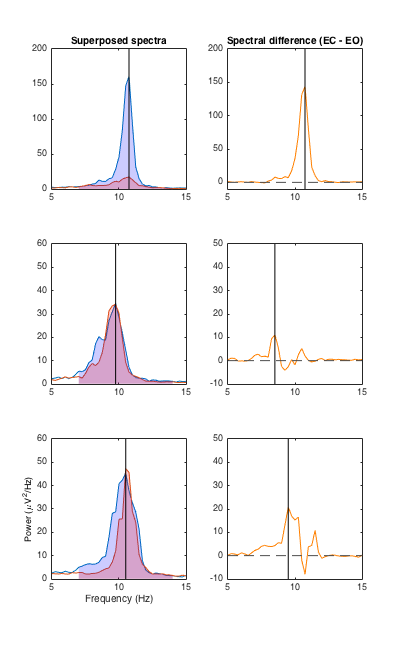
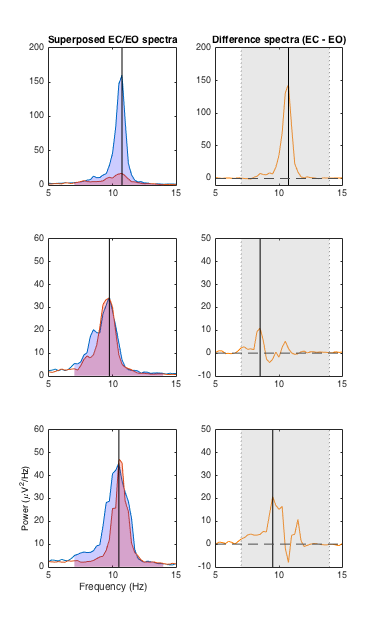
alterations to alpha blocking figure / explanation

diff --git a/iaf_manu.md b/iaf_manu.md
@@ -110,16 +110,16 @@ This is obviously problematic given that one of the chief advantages of the CoG 
 We turn now to two interesting extensions of the TF approach that depend on the alpha blocking or desynchronisation phenomenon mentioned above. 
 The first method, which we refer to as peak attenuation, was described by @posthuma2001.
 
-![*Fig_blocking.* Illustration of the peak attenuation method, in which the PSD from a period of eyes-open EEG (EO) is subtracted from a corresponding eyes-closed recording (EC). The peak frequency of the resulting difference function is taken as the IAF estimate. *Top row*: Alpha-band activity registered during the EO recording (red shading) is relatively low compared to that of the EC spectrum (blue shading). In this case, the peak attenuation method returns the PAF of the EC spectrum as the IAF estimate. *Central row*: When alpha-band activity is similar across EO and EC recordings, peak attenuation may be vulnerable to bias. In this case, the primary peak ~9.75 Hz is present in both spectra, cancelling one another out. Peak attenuation returns 8.5 Hz (the frequency of the secondary peak) as the IAF. *Bottom row*: Data from another participant in which partial overlap of EC and EO spectral components shifts the estimated alpha peak by ~1 Hz.](blocking.png){#blocking}
-<!-- AC: I had intended to wrap the following paragraph to one side of this figure, but I'm not sure markdown supports this.-->
-Similar in principle to Klimesch's [@klimesch1999]<!-- AC: check how to be more flexible with citation format --> delineation of the TF, this technique simply subtracts eyes-oped PSD estimates from the corresponding ordinates of the eyes-closed PSD within some a priori defined alpha-band window (typically extended beyond the standard bandwidth; e.g., 7–14 Hz).
-The resulting peak, which constitutes the maximal power difference between the two spectra, is taken as the PAF. 
-To avoid trivial peaks arising from small fluctuations in the PSD, Posthuma and colleagues excluded spectra featuring consistently low power estimates (< 1.5 $\mu$V/Hz) within the alpha-band. <!-- AC: They report 1.5mV, but is it safe to assume they probably meant 1.5 mV^2^ ? -->
-It isn’t clear, however, whether this criterion (which is analagous to the $\phi$ parameter in the PAF equation defined above) was also applied in cases where the maximal difference between spectra was similarly small (i.e. where both spectra present a substantive, near overlapping alpha-band component).
-Posthuma and colleagues also remarked that peak attenuation estimates deviated from eyes-closed resting-state PAFs in 21% of cases. 
-This lack of convergence, coupled with the observation that peak attenuation may lead to distorted representations of the PAF when the assumption of significant eyes-open alpha desynchronisation fails to obtain [see [Fig_blocking](#blocking); cf. @kreitman1965]<!-- AC: refer to fig where peak est shifted, ? refer to ind diffs in EO/EC alpha-->, suggests peak attenuation may constitute a suboptimal estimator of IAF (at least insofar as IAF is conceived in terms of the PAF).
+![*Fig_blocking.* Illustration of the peak attenuation method, in which PSD estimates from a period of eyes-open EEG (EO) are subtracted from a corresponding eyes-closed recording (EC). The peak frequency of the resulting difference function (within the extended alpha band 7-14 Hz, grey column in difference spectra) is taken as the IAF estimate. *Top row*: Alpha-band activity registered during the EO recording (red shading) is relatively low compared to that of the EC spectrum (blue shading). In this case, the peak attenuation method returns the PAF of the EC spectrum as the IAF estimate. *Central row*: When alpha-band activity is similar across EO and EC recordings, peak attenuation may be vulnerable to bias. In this case, the primary peak ~9.75 Hz is present in both spectra, cancelling one another out. Peak attenuation returns 8.5 Hz (the frequency of the secondary peak) as the IAF. *Bottom row*: Data from another participant in which partial overlap of EC and EO spectral components shifts the estimated alpha peak by ~1 Hz.](blocking.png){#blocking} <!-- AC: I had intended to wrap the following paragraph to one side of this figure, but I'm not sure markdown supports this.-->
 
-Although Posthuma and colleagues [@posthuma2001] did not attempt to locate the bounds of the individual alpha bandwidth on the basis of peak attenuation, the logic motivating this technique would suggest that $f_1$ and $f_2$ could be inferred in much the same way as the TF (i.e. by taking those frequency bins either side of the maximal power difference peak in which the difference between corresponding spectral estimates is minimised).
+Similar in principle to Klimesch's [@klimesch1999]<!-- AC: check how to be more flexible with citation format --> delineation of the TF, this technique simply subtracts eyes-oped PSD estimates from the corresponding ordinates of the eyes-closed PSD within some a priori defined alpha-band window (typically extended beyond the standard bandwidth; e.g., 7–14 Hz).
+The resulting peak, which constitutes the maximal power difference between the two spectra, is taken as the PAF ([Fig_blocking](#blocking), top row). 
+To avoid trivial peaks arising from small fluctuations in the PSD, Posthuma and colleagues excluded spectra featuring consistently low power estimates (< 1.5 $\mu$V/Hz) within the alpha-band. <!-- AC: They report 1.5mV, but is it safe to assume they probably meant 1.5 mV^2^ ? -->
+It isn’t clear, however, whether this criterion (which is analagous to the $\phi$ parameter in the PAF equation defined above) was also applied in cases where the maximal difference between spectra was similarly small (i.e. where both spectra present a substantive, approximately overlapping alpha-band component).
+Posthuma and colleagues also remarked that peak attenuation estimates deviated from eyes-closed resting-state PAFs in 21% of cases. 
+This lack of convergence, coupled with the observation that peak attenuation may lead to distorted representations of the PAF when the assumption of significant eyes-open alpha desynchronisation fails to obtain [see [Fig_blocking](#blocking), central and bottom row; cf. @kreitman1965], suggests peak attenuation may constitute a suboptimal IAF estimator (at least insofar as IAF is conceived in terms of the PAF).
+
+Although Posthuma and colleagues [@posthuma2001] did not attempt to locate the bounds of the individual alpha bandwidth on the basis of peak attenuation, the logic motivating this technique could be applied to infer $f_1$ and $f_2$ in much the same way as the TF (i.e. by taking those frequency bins either side of the difference peak where the difference between corresponding spectral estimates is *minimised*).
 This is precisely the approach that Goljahani and colleagues formalised in their channel reactivity based (CRB) method [@goljahani2012; @goljahani2014]. 
 This technique, which is conceptually reminiscent of Klimesch and colleagues’ [@klimesch1996a] attempt to characterise phasic shifts in band power, quantifies the difference between reference and test PSDs in terms of the alpha responsiveness (or desynchronisation) region; i.e. the area between the PSD functions spanning frequency bins $f_1 - f_2$ (where the spectra intersect, or the residual difference between corresponding spectral estimates is minimised). 
 IAF is estimated by computing the CoG for the reference interval, taking the frequency bounds delimiting the responsiveness region as the index of summation.
